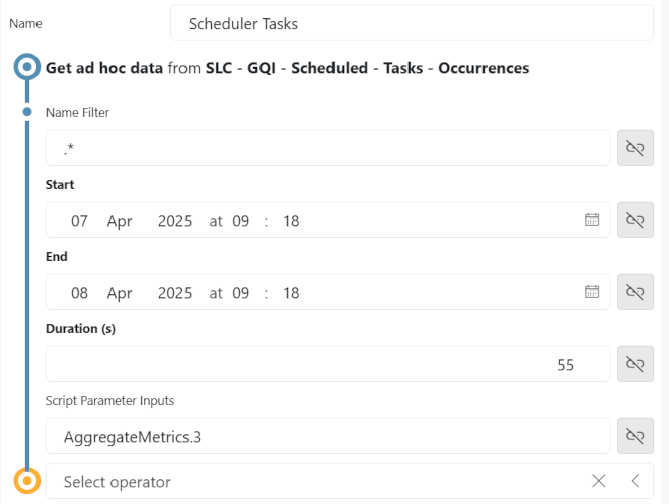
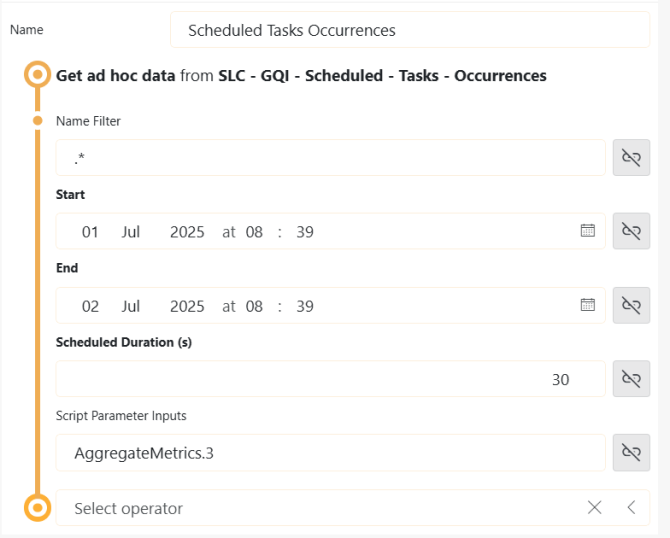
Improving namings of GQI DS and adding script folders. (#6)
* Improving namings of GQI DS and adding scrip folders.

* Update SchedulerTasksGetter.xml

* Update GetScheduledTasksGQI.xml

* Naming fix.

* Changed name of input parameter

* Image switch

---------

diff --git a/GetScheduledTasksGQI/DataHelpers/Arguments.cs b/GetScheduledTasksGQI/DataHelpers/Arguments.cs
@@ -10,7 +10,7 @@
 		private readonly GQIStringArgument nameFilter = new GQIStringArgument("Name Filter") { IsRequired = false, DefaultValue = ".*" };
 		private readonly GQIDateTimeArgument start = new GQIDateTimeArgument("Start") { IsRequired = true };
 		private readonly GQIDateTimeArgument end = new GQIDateTimeArgument("End") { IsRequired = true };
-		private readonly GQIIntArgument duration = new GQIIntArgument("Duration (s)") { IsRequired = true };
+		private readonly GQIIntArgument duration = new GQIIntArgument("Scheduled Duration (s)") { IsRequired = true };
 		private readonly GQIStringArgument scriptParameterInputs = new GQIStringArgument("Script Parameter Inputs") { IsRequired = false };
 
 		public string NameFilter { get; private set; }

diff --git a/SchedulerTasksGetter/SchedulerTasksGetter.cs b/SchedulerTasksGetter/SchedulerTasksGetter.cs
@@ -12,7 +12,7 @@ namespace SchedulerTasksGetter
 	using SchedulerTask = Skyline.DataMiner.Net.Messages.SchedulerTask;
 
 	/// <summary> Represents a data source. See: https://aka.dataminer.services/gqi-external-data-source for a complete example. </summary>
-	[GQIMetaData(Name = "SLC - GQI - Scheduled - Tasks")]
+	[GQIMetaData(Name = "SLC - Get Scheduled Tasks")]
 	public sealed class SchedulerTasksGetter : IGQIDataSource, IGQIOnPrepareFetch, IGQIOnInit, IGQIInputArguments
 	{
 		private readonly GQIStringArgument nameFilterArgument = new GQIStringArgument("Name Filter") { IsRequired = false, DefaultValue = ".*" };

diff --git a/GetScheduledTasksGQI/GetScheduledTasksGQI.cs b/GetScheduledTasksGQI/GetScheduledTasksGQI.cs
@@ -14,7 +14,7 @@ namespace GetScheduledTasksGQI
 	/// Represents a data source.
 	/// See: https://aka.dataminer.services/gqi-external-data-source for a complete example.
 	/// </summary>
-	[GQIMetaData(Name = "SLC - GQI - Scheduled - Tasks - Occurrences")]
+	[GQIMetaData(Name = "SLC - Get Scheduled Tasks Occurrences")]
 	public class GetScheduledTasksGQI : IGQIDataSource, IGQIInputArguments, IGQIOnInit, IGQIOnPrepareFetch
 	{
 		private readonly Arguments arguments = new Arguments();

diff --git a/SchedulerTasks/CatalogInformation/README.md b/SchedulerTasks/CatalogInformation/README.md
@@ -1,8 +1,8 @@
 ## About
 
-This package consists of two ad hoc data sources, **SLC - GQI - Scheduled - Tasks** and **SLC - GQI - Scheduled - Tasks - Occurrences**, that retrieve information about scheduled tasks in a DataMiner System. By implementing these ad hoc data sources in low-code apps and/or dashboards, you can visualize data from the Scheduler module in a custom way.
+This package consists of two ad hoc data sources, **SLC - Get Scheduled Tasks** and **SLC - Get Scheduled Tasks Occurrences**, that retrieve information about scheduled tasks in a DataMiner System. By implementing these ad hoc data sources in low-code apps and/or dashboards, you can visualize data from the Scheduler module in a custom way.
 
-**SLC - GQI - Scheduled - Tasks** provides a list of scheduled tasks from the DataMiner Scheduler module, while **SLC - GQI - Scheduled - Tasks - Occurrences** provides a list of the scheduled task occurrences based on the user's input in a specific period of time. This way, a customizable overview of tasks is provided.
+**SLC - Get Scheduled Tasks** provides a list of scheduled tasks from the DataMiner Scheduler module, while **SLC - Get Scheduled Tasks Occurrences** provides a list of the scheduled task occurrences based on the user's input in a specific period of time. This way, a customizable overview of tasks is provided.
 
 ## Key Features
 
@@ -23,19 +23,19 @@ The versatility of the package lends itself to a broad range of applications, in
 
 ## Configuration 
 
-After the package has been deployed, two ad hoc data sources, **SLC - GQI - Scheduled - Tasks**  and  **SLC - GQI - Scheduled - Tasks - Occurrences**, will be available for use in GQI queries. For more information about GQI, refer to [Generic Query Interface](https://aka.dataminer.services/About_GQI).
+After the package has been deployed, two ad hoc data sources, **SLC - Get Scheduled Tasks**  and  **SLC - Get Scheduled Tasks Occurrences**, will be available for use in GQI queries. For more information about GQI, refer to [Generic Query Interface](https://aka.dataminer.services/About_GQI).
 
-### SLC - GQI - Scheduled - Tasks
+### SLC Get Scheduled Tasks
 
-While implementing **SLC - GQI - Scheduled - Tasks**, you can optionally specify the **Name Filter** input parameter. This regular expression (regex) pattern will be used to match the task name. If no name filter is specified, `.*` is used instead.
+While implementing **SLC - Get Scheduled Tasks**, you can optionally specify the **Name Filter** input parameter. This regular expression (regex) pattern will be used to match the task name. If no name filter is specified, `.*` is used instead.
 
 ![SchedulerTasks](./Images/Scheduler_Tasks_75pct.png)
 
 As a result, the GQI will retrieve the name, description, and type of the task, the ID of the Agent on which the task was executed, the result of the last run of the task, and the task's interval.
 
-### SLC - GQI - Scheduled - Tasks - Occurrences
+### SLC - GQI Scheduled Tasks Occurrences
 
-While implementing **SLC - GQI - Scheduled - Tasks - Occurrences**, you should specify the following input parameters:
+While implementing **SLC - Get Scheduled Tasks Occurrences**, you should specify the following input parameters:
 
 - **Name Filter**: Optional. Regular expression (regex) to match the task name. If no name filter is specified, `.*` is used instead.
 - **Start**: The beginning of the time frame during which task occurrences should be recorded.
